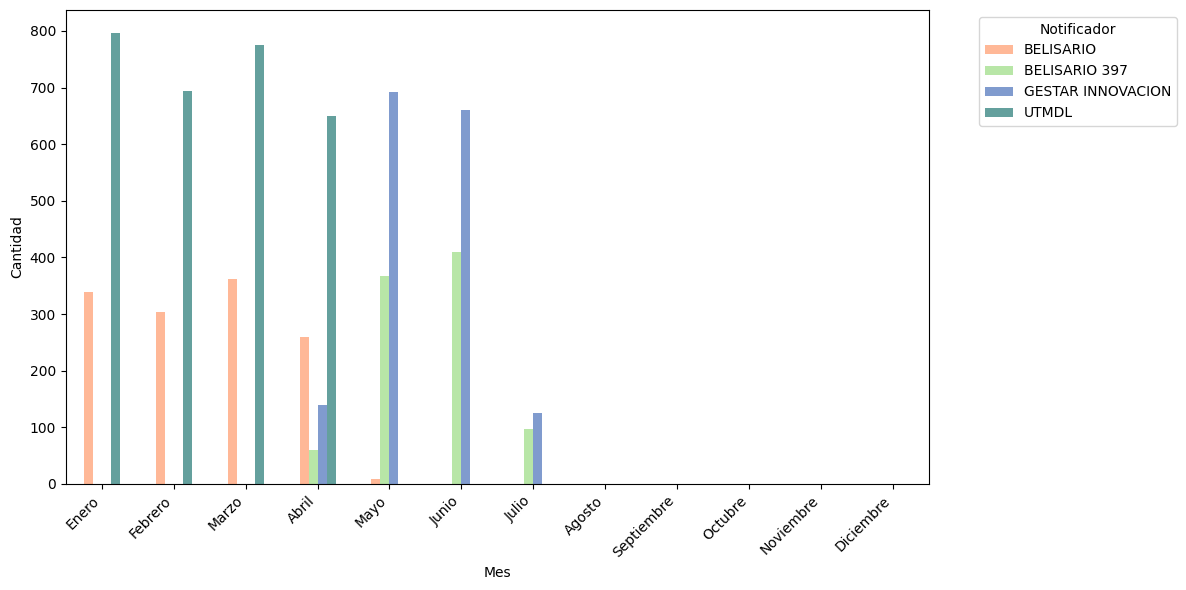
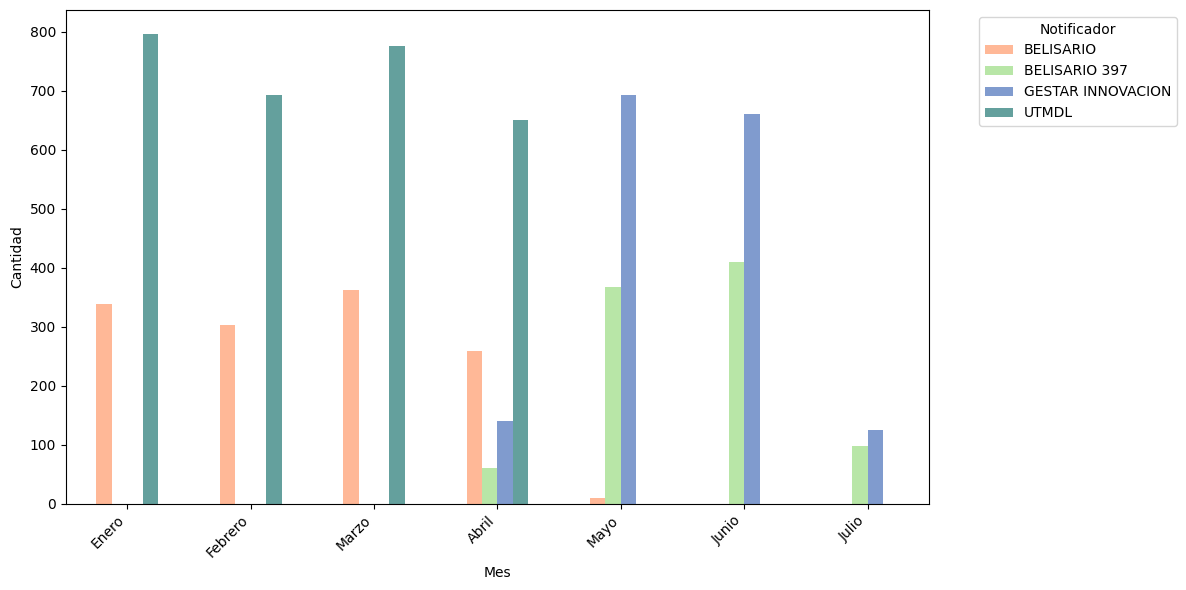
Gráfica barras hoja tabla mes arreglada

diff --git a/views/proceso1.py b/views/proceso1.py
@@ -260,17 +260,17 @@ def graficas_barras_tabla_mes(df, nombre_hoja):
     # Agrupar por MES_NOMBRE y NOTIFICADOR → contar casos
     conteo = df.groupby(['MES_NOMBRE', 'NOTIFICADOR']).size().reset_index(name='TOTAL')
 
-    # Pivot para poner NOTIFICADOR como columnas y MES_NOMBRE como índice
+    # Pivot sin inventar meses
     tabla = conteo.pivot(index='MES_NOMBRE', columns='NOTIFICADOR', values='TOTAL').fillna(0)
 
-    # Ordenar los meses Enero → Diciembre
+    # Ordenar meses sin crear filas nuevas
     orden_meses = [_mes_a_nombre(i) for i in range(1, 13)]
-    tabla = tabla.reindex(orden_meses, fill_value=0)
+    tabla.index = pd.CategoricalIndex(tabla.index, categories=orden_meses, ordered=True)
+    tabla = tabla.sort_index()
 
-    # Plot: Barras agrupadas (NO apiladas)
+    # 📊 Plot
     fig, ax = plt.subplots(figsize=(12, 6))
-    tabla.plot(kind='bar', ax=ax, color=colores)  
-
+    tabla.plot(kind='bar', ax=ax, color=colores)
 
     ax.set_xlabel("Mes")
     ax.set_ylabel("Cantidad")
@@ -281,8 +281,8 @@ def graficas_barras_tabla_mes(df, nombre_hoja):
     plt.tight_layout()
     plt.savefig(path, transparent=True, bbox_inches="tight")
     plt.close(fig)
-
     return path
+
 
 def graficas_pastel_tabla_mes(df, nombre_hoja):
     if 'MES' not in df.columns:
